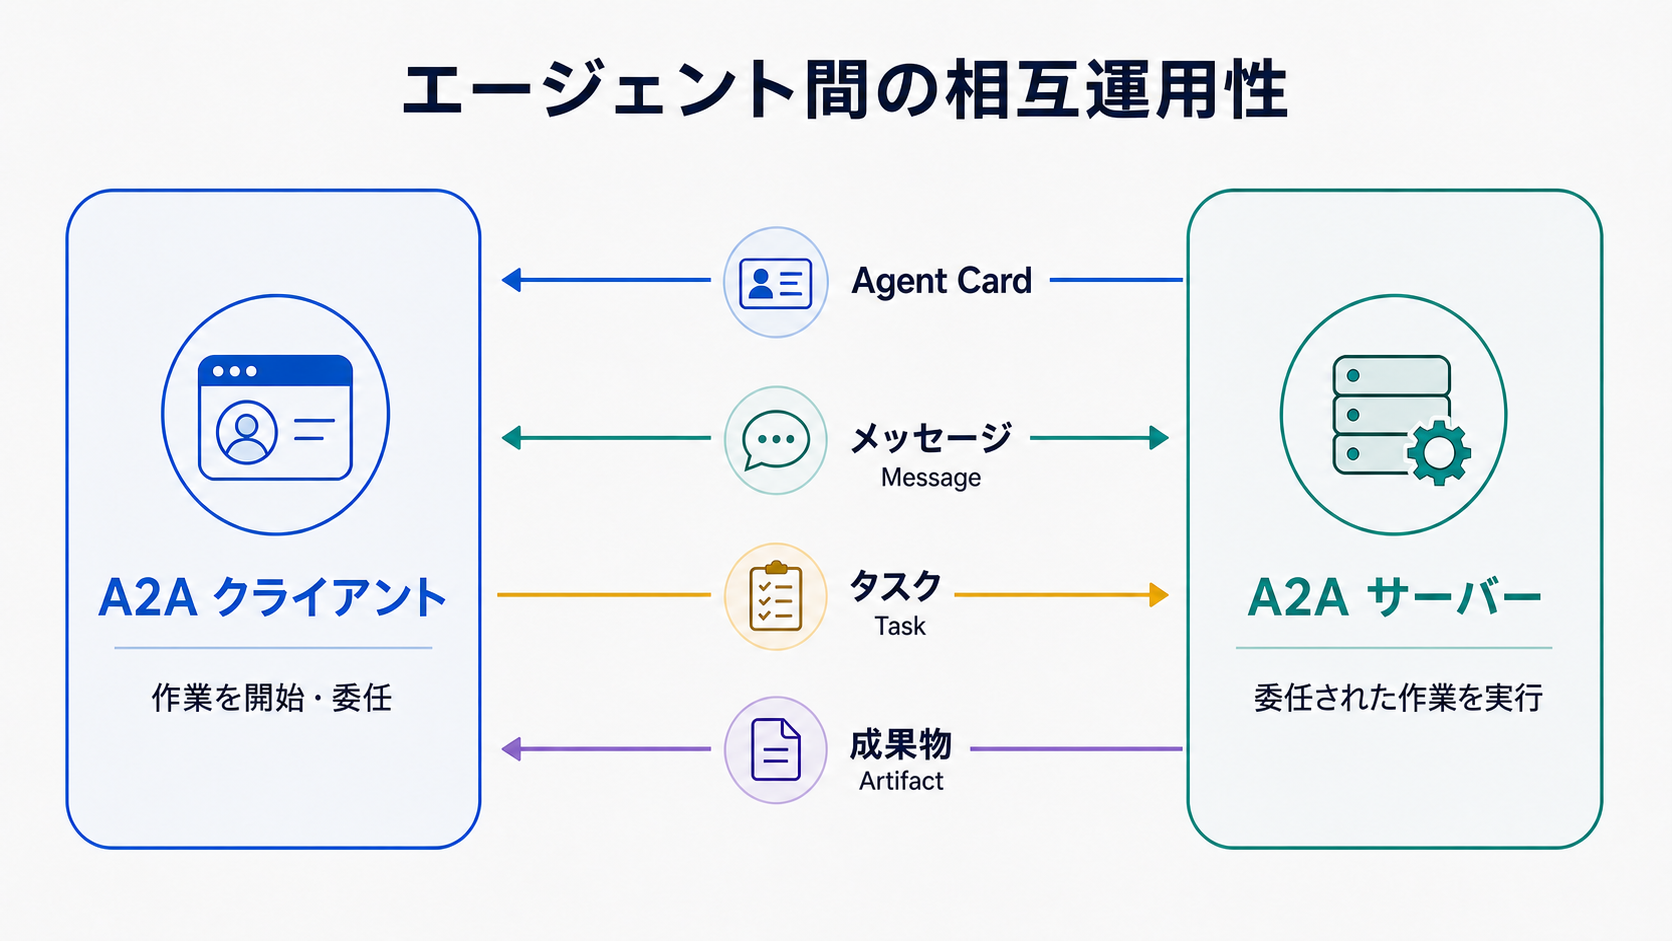
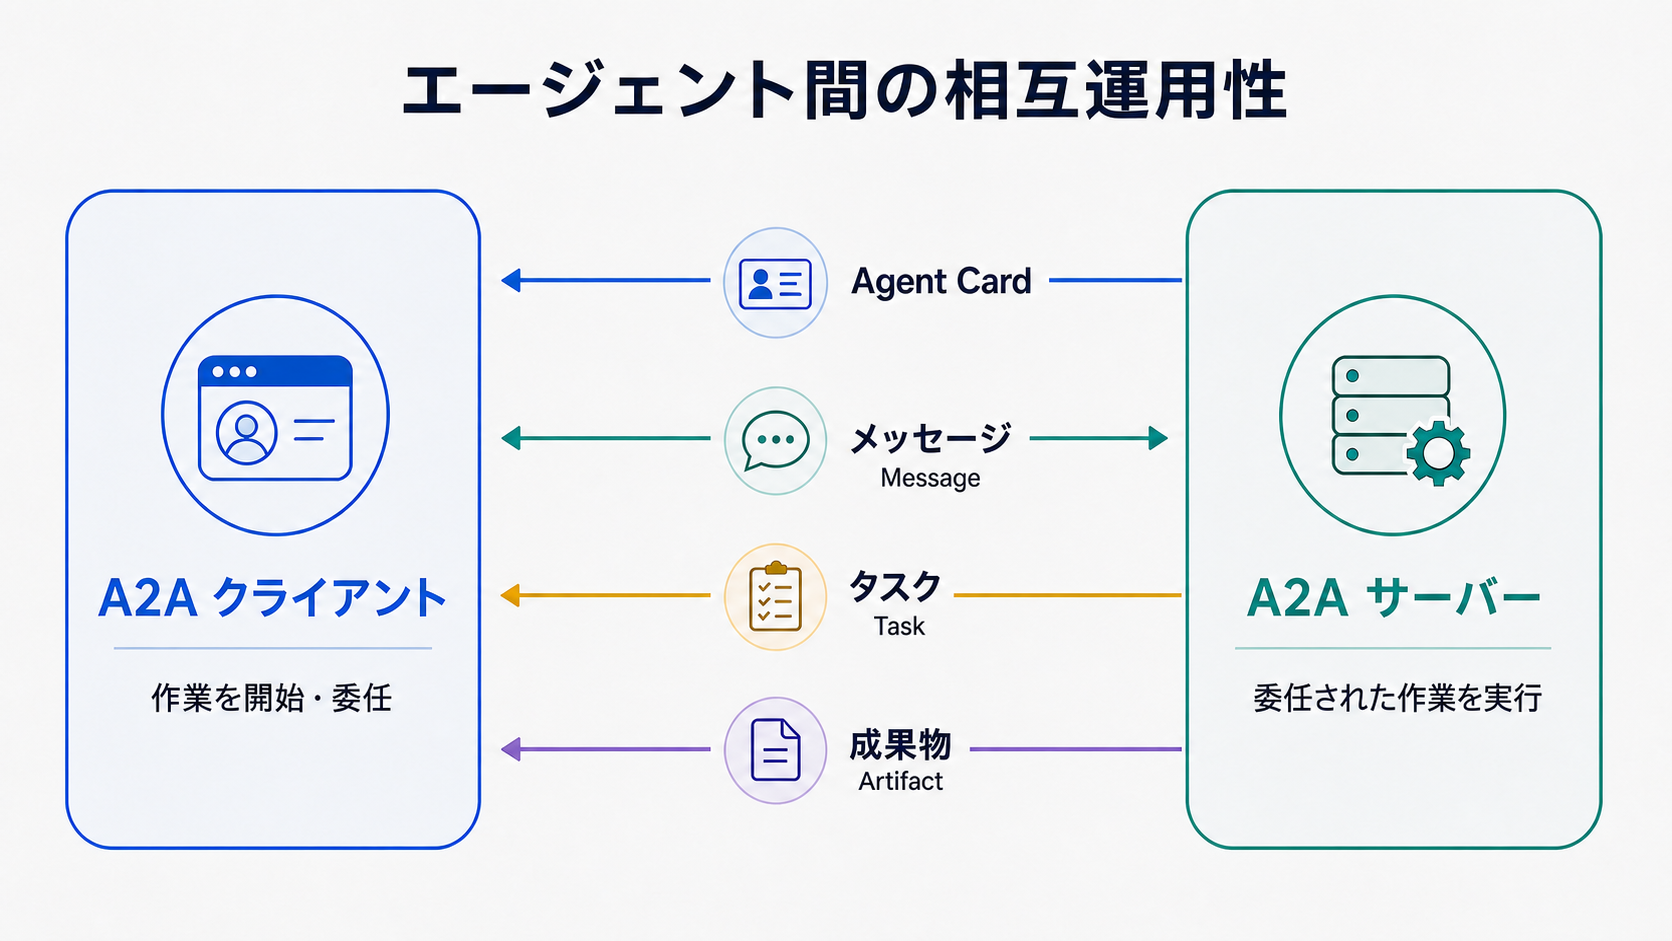
Clarify A2A task ownership and flow

diff --git a/content/docs/ai/agent-to-agent/_index.md b/content/docs/ai/agent-to-agent/_index.md
@@ -36,11 +36,13 @@ A2A organizes collaboration around a small set of externally visible concepts.
 | A2A server or remote agent | Advertises capabilities and performs delegated work |
 | Agent Card | Describes identity, endpoints, skills, supported features, and authentication requirements |
 | Message | Carries conversational input, clarification, or status information |
-| Task | Tracks a stateful unit of delegated work through its lifecycle |
+| Task | Represents stateful work created and managed by the server in response to a message |
 | Part | Represents text, a file reference, or structured data within a message or artifact |
 | Artifact | Carries a result produced by a task, such as a document or structured record |
 
-A client first identifies an appropriate remote agent and reads its declared interface. It then sends a message that may receive a direct message response or create a stateful task. A task can progress over time, request more input, publish status updates, and produce one or more artifacts.
+A client first identifies an appropriate remote agent and reads its declared interface. It then sends a new message to request work. That message initiates the interaction.
+
+The server decides how to represent its response. For a simple interaction, it can return a `Message` directly. When the work needs state, progress tracking, additional input, or asynchronous completion, the server creates a `Task`, generates its unique `taskId`, and returns the `Task` to the client. The task can then progress over time, request more input, publish status updates, and produce one or more artifacts. To continue that interaction, the client sends another message referencing the existing `taskId`.
 
 The distinction between messages and artifacts is important. Messages support communication about the work; artifacts represent task outputs. Keeping those roles separate makes it easier for clients to determine what should be displayed as conversation, processed as a result, retained as evidence, or validated before another action.
 
@@ -108,7 +110,9 @@ The card tells a client where and how to connect, which interaction features are
 
 ## Task Lifecycle and Result Exchange
 
-Agent work is often longer-lived than a conventional request-response call. A delegated task may be submitted, start working, pause for more input or authorization, and eventually complete, fail, be rejected, or be canceled. Clients need to understand these states rather than treating every delayed response as a network failure.
+Agent work is often longer-lived than a conventional request-response call. The client initiates work by sending a message. If the server determines that the request needs a stateful lifecycle, it creates and returns a task; otherwise, it may return a direct message without creating one. A created task may start working, pause for more input or authorization, and eventually complete, fail, be rejected, or be canceled. Clients need to understand these states rather than treating every delayed response as a network failure.
+
+This distinction separates business intent from protocol state. The client requests or delegates the work, while the server owns the resulting task representation and its lifecycle. A later client message may reference the server-generated `taskId` to supply clarification or continue the same task.
 
 Updates can be retrieved by polling or delivered through streaming and push mechanisms when the remote agent declares support. These options address transport and lifecycle concerns; they do not guarantee business-level completion. A completed task may still produce an unusable artifact, and a technically valid artifact may still require review before it can influence another system.
 

diff --git a/prompts/docs/ai/imagen/agent-to-agent-image.md b/prompts/docs/ai/imagen/agent-to-agent-image.md
@@ -16,7 +16,7 @@ Between the panels, show four spacious horizontal exchanges with unmistakable di
 
 - **Agent Card** moves from the server to the client.
 - **Message** is bidirectional.
-- **Task** moves from the client to the server.
+- **Task** moves from the server to the client because the server creates and returns the stateful task representation.
 - **Artifact** moves from the server to the client.
 
 Use a light background and large readable text. Render only these labels exactly as written: **Agent-to-Agent Interoperability**, **A2A Client**, **Initiates and delegates work**, **A2A Server**, **Performs delegated work**, **Agent Card**, **Message**, **Task**, and **Artifact**. Do not add logos, protocol or vendor branding, watermarks, humanoid robots, chat bubbles, photorealism, code snippets, or dense decoration.
